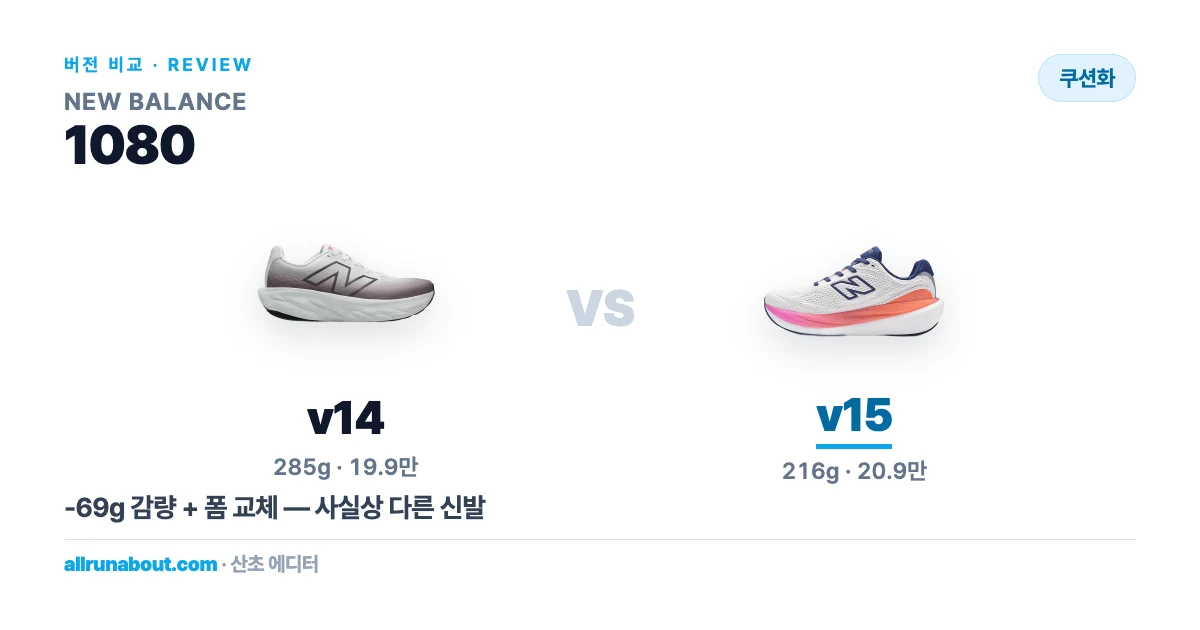
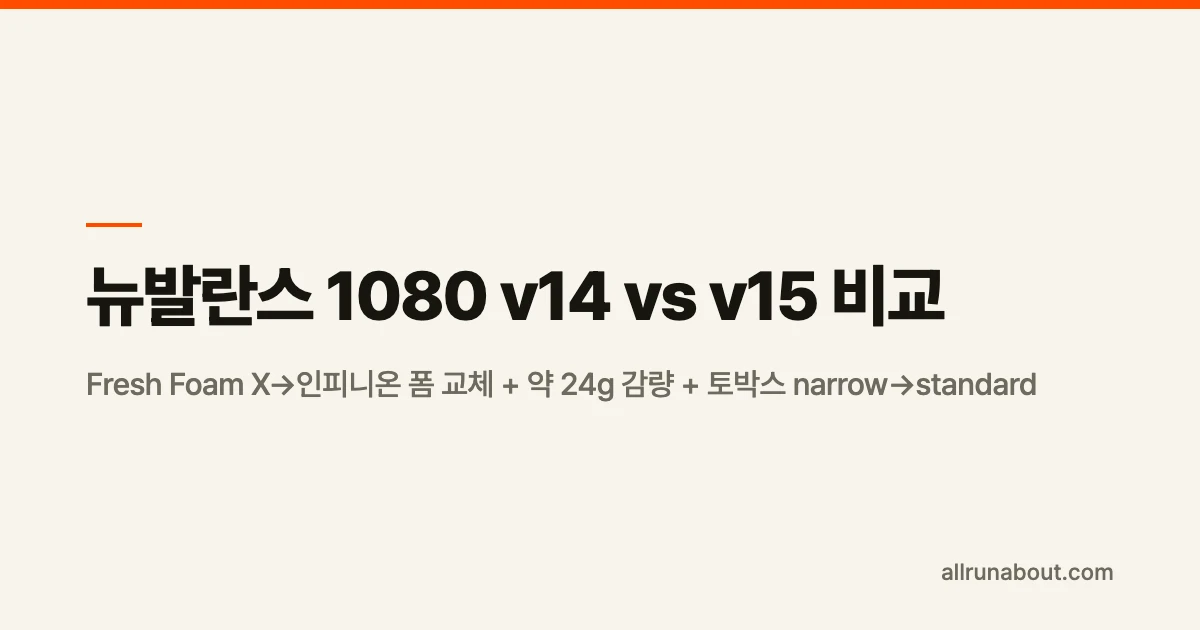
fix(blog): 1080 v15 무게 "216g" 오타 9편 43곳 → 뉴발란스 공식 261g, "65g이 가른다"·"-69g" 논지 정정
newbalance.com 1080v15 남성 "Weight 261 grams (9.2 oz)"(여성 208g), 2026-09-29 확인. 신발 DB는 이미 261g이었고
블로그만 261을 뒤바꾼 216g을 퍼뜨리고 있었다(포항 철인런·시착 팝업·체중 러너·맥스쿠션·가격대별 추천·
매직스피드 4 vs 5 포함).

- 1080 v14 vs v15: 제목 "-69g 충격 감량" → "약 24g 감량"(DB v14 285g 기준). v14 공식 표기가 페이지마다
  273g·298g으로 갈려 본문에 "감량 폭 10~40g 범위"로 밝혔다
- 1080 v15 vs 님버스 28: 제목 "65g이 가른다" → "반발과 드롭이 가른다". 실제 무게 차이는 20g(261 vs 281)이라
  "65g 확실히 체감" FAQ를 본문에 이미 있던 반발(7 vs 5/10)·드롭(6 vs 8mm) 기준으로 고쳤다
- 맥스쿠션 표: 261g이어도 표 안 최경량이라 "이 표에서 가장 가볍다"로 범위를 좁혔고, 보메로 18 발볼은 DB(표준)에 맞췄다
- 제목이 바뀐 두 글 썸네일 재렌더. 후속: v14 공식 무게 확인(10/05 행)

diff --git a/src/lib/data/blog/posts/2026-05.ts b/src/lib/data/blog/posts/2026-05.ts
@@ -3481,7 +3481,7 @@ export const posts_2026_05: BlogPost[] = [
 
 <h3>1. 무게 -44g — 같은 라인업 중에서 가장 큰 폭의 경량화</h3>
 
-<p>237g → 193g, <strong>-19% 경량화</strong>는 비교 시리즈에서 본 변화 중 압도적으로 큰 폭입니다. 페가수스 41 → 42가 +5g(쿠션 강화 트레이드오프), NB 1080 v14 → v15가 -69g 정도였는데 매직스피드는 카본 레이서치고는 큰 폭의 다이어트입니다.</p>
+<p>237g → 193g, <strong>-19% 경량화</strong>는 비교 시리즈에서 본 변화 중 압도적으로 큰 폭입니다. 페가수스 41 → 42가 +5g(쿠션 강화 트레이드오프), NB 1080 v14 → v15가 약 -24g이었는데 매직스피드는 카본 레이서치고는 큰 폭의 다이어트입니다.</p>
 
 <p><strong>무게 차이의 의미</strong>: 한 발 44g(-19%) 차이는 1km 반복 인터벌이나 하프 후반처럼 다리를 오래 반복해 들어 올리는 구간에서 누적될 가능성이 있습니다.</p>
 
@@ -4398,8 +4398,8 @@ export const posts_2026_05: BlogPost[] = [
   {
     id: 'new-balance-1080-v14-vs-v15-comparison',
     slug: 'new-balance-1080-v14-vs-v15-comparison',
-    title: '뉴발란스 1080 v14 vs v15 비교 | -69g 충격 감량 + Fresh Foam X→인피니온 폼 교체 + 토박스 narrow→standard — 사실상 다른 신발',
-    description: '1080 v14(285g/199,000원)와 v15(216g/209,000원)을 RunRepeat 실측 + 외부 리뷰로 비교. 69g 감량 + 폼 자체 교체 + 토박스 narrow→standard + 4E 와이드 추가 — 같은 라인 세대 변화 중 역대급. v14 할인 13만원대 살까, v15 신상 21만원 살까 매트릭스.',
+    title: '뉴발란스 1080 v14 vs v15 비교 | Fresh Foam X→인피니온 폼 교체 + 약 24g 감량 + 토박스 narrow→standard — 사실상 다른 신발',
+    description: '1080 v14(285g/199,000원)와 v15(261g/209,000원)을 RunRepeat 실측 + 외부 리뷰로 비교. 약 24g 감량 + 폼 자체 교체 + 토박스 narrow→standard + 4E 와이드 추가 — 같은 라인 세대 변화 중 역대급. v14 할인 13만원대 살까, v15 신상 21만원 살까 매트릭스.',
     thumbnail: '/images/blog/new-balance-1080-v14-vs-v15-comparison.webp',
     author: '산초 에디터',
     publishedAt: '2026-05-17',
@@ -4410,7 +4410,7 @@ export const posts_2026_05: BlogPost[] = [
 <div class="tldr">
   <span class="tldr-label">3줄 요약</span>
   <ul>
-    <li><strong>같은 라인 세대 변화 중 역대급</strong> — v15는 v14 대비 -69g 감량(285→216g) + Fresh Foam X → 인피니온(질소 주입 슈퍼크리티컬) 폼 교체</li>
+    <li><strong>같은 라인 세대 변화 중 역대급</strong> — v15는 v14 대비 약 24g 감량(285→261g) + Fresh Foam X → 인피니온(질소 주입 슈퍼크리티컬) 폼 교체</li>
     <li>한국 러너 핵심 개선 3가지: <strong>토박스 narrow → standard</strong> + <strong>4E 와이드 옵션 추가</strong> + <strong>힐 스택 +3mm(37→40mm)</strong></li>
     <li>가격 차이 1만원(MSRP). 단 <strong>v14 할인 13~15만원대</strong>로 풀려 실제 차이 5~7만원. "별개의 신발"이라 본인 우선순위(가벼움 vs 가성비)로 갈림</li>
   </ul>
@@ -4434,7 +4434,7 @@ export const posts_2026_05: BlogPost[] = [
     <tr><td><strong>출시</strong></td><td>2024년</td><td><strong>2026년</strong></td><td>2년차 / 신상</td></tr>
     <tr><td><strong>MSRP (한국)</strong></td><td>199,000원</td><td><strong>209,000원</strong></td><td>+10,000원</td></tr>
     <tr><td><strong>현재 시장가</strong></td><td><strong>130,000~150,000원</strong> (이월 할인)</td><td>209,000원 (출시 풀가)</td><td>실제 차이 ~7만원</td></tr>
-    <tr><td><strong>무게 (US M9)</strong></td><td>285g</td><td><strong>216g</strong></td><td><strong>-69g (역대급)</strong></td></tr>
+    <tr><td><strong>무게 (남성)</strong></td><td>285g</td><td><strong>261g</strong> (뉴발란스 공식)</td><td><strong>약 -24g</strong></td></tr>
     <tr><td><strong>미드솔 폼</strong></td><td>Fresh Foam X (EVA 기반)</td><td><strong>인피니온 (질소 주입 슈퍼크리티컬)</strong></td><td>폼 카테고리 자체 교체</td></tr>
     <tr><td><strong>힐 스택 (실측)</strong></td><td>37mm</td><td>40mm</td><td>+3mm</td></tr>
     <tr><td><strong>전족부 스택</strong></td><td>33mm</td><td>34mm</td><td>+1mm</td></tr>
@@ -4453,11 +4453,11 @@ export const posts_2026_05: BlogPost[] = [
 
 <h2>5가지 핵심 변화 — "사실상 다른 신발"</h2>
 
-<h3>1. 무게 -69g 감량 ✅ 같은 라인 세대 변화 중 역대급</h3>
-<p>285g → 216g. 페가수스(+5g)·카야노(-2g)와 비교조차 안 되는 변화.</p>
+<h3>1. 무게 약 24g 감량 ✅ 폼 교체와 함께 온 경량화</h3>
+<p>285g → 261g(뉴발란스 공식 남성 표기). 페가수스(+5g)·카야노(-2g)보다는 큰 폭입니다. 다만 v14 무게는 뉴발란스 공식 페이지마다 273g·298g으로 표기가 달라, 감량 폭은 대략 10~40g 범위로 보는 게 정확합니다.</p>
 
 <h3>2. Fresh Foam X → 인피니온 폼 교체 ✅ 폼 카테고리 자체 교체</h3>
-<p>v14의 Fresh Foam X는 EVA 기반 폼. v15의 <strong>인피니온은 질소 주입 슈퍼크리티컬 폼</strong>(아디다스 Lightstrike Pro·나이키 ZoomX 계열). 같은 두께에서 더 가볍고, 에너지 리턴이 향상되고, 통기성도 개선. <strong>이 폼 교체가 -69g 감량의 핵심</strong>.</p>
+<p>v14의 Fresh Foam X는 EVA 기반 폼. v15의 <strong>인피니온은 질소 주입 슈퍼크리티컬 폼</strong>(아디다스 Lightstrike Pro·나이키 ZoomX 계열). 같은 두께에서 더 가볍고, 에너지 리턴이 향상되고, 통기성도 개선. <strong>이 폼 교체가 감량의 핵심</strong>.</p>
 
 <div class="callout warning">
   <span class="callout-icon">🔬</span>
@@ -4486,13 +4486,13 @@ export const posts_2026_05: BlogPost[] = [
     <tr><td>가성비 최우선 + 표준 발볼</td><td><strong>v14 이월 할인 (13~15만원)</strong></td><td>SA 142 검증 + 쿠셔닝 9/10 동급 + 5~7만원 절약</td></tr>
     <tr><td>발볼 4E급 (4E 와이드 필수)</td><td><strong>v15 4E</strong></td><td>v14 4E 옵션 없음, v15 신규 추가</td></tr>
     <tr><td>발볼 2E (와이드 정도)</td><td>v14 또는 v15</td><td>둘 다 2E 옵션 있음. 가격으로 선택</td></tr>
-    <tr><td>가벼운 쿠션화 우선 (216g)</td><td><strong>v15</strong></td><td>-69g 차이 압도적</td></tr>
-    <tr><td>빠른 페이스(5:00/km 이하) 가능 쿠션화</td><td><strong>v15</strong></td><td>216g + 인피니온 폼 반발</td></tr>
+    <tr><td>가벼운 쿠션화 우선 (261g)</td><td><strong>v15</strong></td><td>약 24g 가벼움</td></tr>
+    <tr><td>빠른 페이스(5:00/km 이하) 가능 쿠션화</td><td><strong>v15</strong></td><td>261g + 인피니온 폼 반발</td></tr>
     <tr><td>리커버리·LSD 위주 (페이스 무관)</td><td><strong>v14 (가성비)</strong></td><td>HA 11.9 초소프트, 푹 쉬는 느낌</td></tr>
     <tr><td>평발·과내전</td><td>둘 다 비추 (안정화로)</td><td>1080은 중립화. 카야노 32/33이 답</td></tr>
     <tr><td>무릎 약한 뒤꿈치 착지</td><td><strong>v15</strong></td><td>40mm 스택 + 6mm 드롭 개선</td></tr>
     <tr><td>v14 600km 이내 멀쩡</td><td><strong>v14 계속</strong></td><td>v15 갈아탈 가치 미미</td></tr>
-    <tr><td>v14 수명 다 됨 + 무게 부담 컸음</td><td><strong>v15</strong></td><td>-69g + standard 토박스</td></tr>
+    <tr><td>v14 수명 다 됨 + 무게 부담 컸음</td><td><strong>v15</strong></td><td>약 -24g + standard 토박스</td></tr>
     <tr><td>주 100km+ 고볼륨</td><td>v14 (내구성 검증) 또는 v15 (가벼움)</td><td>본인 우선순위로 갈림</td></tr>
     <tr><td>1080 첫 도전 + 발볼 표준</td><td><strong>v14 이월</strong></td><td>13~15만원에 쿠셔닝 검증된 입문</td></tr>
   </tbody>
@@ -4518,7 +4518,7 @@ export const posts_2026_05: BlogPost[] = [
 <ul>
   <li><strong>발볼 4E급:</strong> v15 4E 정가로 가야 함. v14는 4E 없음, 2E로는 부족할 가능성</li>
   <li><strong>발볼 표준~2E + 가성비:</strong> v14 이월 13~15만원이 지금 가장 합리적. 여름~블프 더 떨어질 가능성 vs 사이즈 빠질 위험 트레이드오프</li>
-  <li><strong>경량 쿠션화 우선:</strong> v15 정가 21만원 감수. -69g 가치는 본인이 직접 신어봐야 체감 가능</li>
+  <li><strong>경량 쿠션화 우선:</strong> v15 정가 21만원 감수. 약 24g 감량 폭은 크지 않아 매장 시착으로 체감을 확인하는 편이 안전</li>
   <li><strong>둘 다 처음:</strong> NB 매장 또는 ON YOUR MARK 트라이얼에서 양쪽 동시 신어보고 결정</li>
 </ul>
 
@@ -4553,7 +4553,7 @@ export const posts_2026_05: BlogPost[] = [
 <h2>FAQ</h2>
 
 <h3>Q. v14 → v15 업그레이드 가치 있나요?</h3>
-<p>가치 큼. <strong>-69g 감량 + 폼 자체 교체 + 토박스 standard + 4E 옵션</strong> — 같은 라인 세대 변화 중 거의 가장 큰 폭. v14를 300km 이내 신었다면 그냥 v14 굴리고, v14가 수명 다 됐거나 발볼 4E급이라면 무조건 v15.</p>
+<p>가치 큼. <strong>약 24g 감량 + 폼 자체 교체 + 토박스 standard + 4E 옵션</strong> — 같은 라인 세대 변화 중 거의 가장 큰 폭. v14를 300km 이내 신었다면 그냥 v14 굴리고, v14가 수명 다 됐거나 발볼 4E급이라면 무조건 v15.</p>
 
 <h3>Q. v15가 정말 v14보다 부드러운가요?</h3>
 <p>"부드러움 절대치"는 v14의 HA 11.9 초소프트가 살짝 더 부드러울 수 있음 (검증 데이터 기준). 다만 v15의 인피니온 폼은 NB가 에너지 리턴 향상을 내세운 폼이라, 반발감은 v15 쪽일 가능성이 있음(v15 랩 수치는 작성 시점 미게시). <strong>리커버리 위주 = v14, 데일리 + 페이스 가끔 올리기 = v15</strong>가 정답.</p>
@@ -4565,7 +4565,7 @@ export const posts_2026_05: BlogPost[] = [
 <p>가벼운 평발이라면 OK. <strong>안정성 6/10은 "중립화 평균"</strong>이고, 페가수스(8/10)·님버스(7/10)보다는 약하지만 1080도 충분한 베이스 폼 안정성은 있음. 다만 <strong>심한 과내전이면 무조건 카야노 32/33이나 860 v15</strong>로.</p>
 
 <h3>Q. v15로 풀코스 가능한가요?</h3>
-<p>가능. 216g + 6mm 드롭 + 인피니온 폼 조합은 Sub-4 ~ Sub-5 풀코스 완주에 적합. <strong>Sub-3:30 이하 도전은 카본 슈즈로 분리 권장</strong>. v15는 데일리 + LSD + 풀코스 완주(페이스 부담 없는 경우) 전용.</p>
+<p>가능. 261g + 6mm 드롭 + 인피니온 폼 조합은 Sub-4 ~ Sub-5 풀코스 완주에 적합. <strong>Sub-3:30 이하 도전은 카본 슈즈로 분리 권장</strong>. v15는 데일리 + LSD + 풀코스 완주(페이스 부담 없는 경우) 전용.</p>
 
 <h3>Q. v14 narrow 토박스 발볼 표준이면 신을 만 한가요?</h3>
 <p>발볼 정확히 표준(EE 이하)이라면 D 사이즈 OK. <strong>발볼 약간 넓다 싶으면 무조건 2E</strong>. RunRepeat 실측 토박스 68mm 미만 narrow는 한국 러너 평균(70~75mm)보다 좁음.</p>
@@ -4576,7 +4576,7 @@ export const posts_2026_05: BlogPost[] = [
   <span class="callout-icon">🎯</span>
   <div class="callout-body">
     <p class="callout-title">90% 한국 러너에게는 두 갈래</p>
-    <p><strong>① 발볼 4E급 또는 가벼운 쿠션화 매니아:</strong> <a href="/shoes/new-balance-1080-v15">1080 v15</a> 정가 21만원 감수해서라도 4E 신규 옵션 + -69g 가치 회수.</p>
+    <p><strong>① 발볼 4E급 또는 가벼운 쿠션화 매니아:</strong> <a href="/shoes/new-balance-1080-v15">1080 v15</a> 정가 21만원 감수해서라도 4E 신규 옵션 + 폼 교체 가치 회수.</p>
     <p><strong>② 발볼 표준~2E + 가성비:</strong> <a href="/shoes/new-balance-1080-v14">1080 v14</a> 이월 13~15만원 잡고 5~7만원 절약. SA 142 + HA 11.9 초소프트 쿠셔닝은 여전히 최상위. 페이스 욕심 없는 리커버리·LSD 위주라면 무게 차이 체감 적음.</p>
     <p><strong>둘 다 처음이거나 결정 못 한다면:</strong> ON YOUR MARK 경복궁점·부산점 또는 NB 직영매장에서 양쪽 동시 시착이 가장 정확.</p>
   </div>
@@ -7389,7 +7389,7 @@ export const posts_2026_05: BlogPost[] = [
 <ul>
   <li><strong>1코스 3.8km / 2코스 7.87km — 경량 데일리:</strong> <a href="/shoes/adidas-adizero-evo-sl">아디다스 아디제로 에보 SL</a>(223g)·<a href="/shoes/nike-pegasus-plus">나이키 페가수스 플러스</a>·<a href="/shoes/new-balance-rebel-v5">NB 레벨 v5</a></li>
   <li><strong>3코스 15.38km / PB 도전 — 슈퍼 트레이너 또는 카본화:</strong> <a href="/shoes/adidas-adios-pro-4">아디오스 프로 4</a>·<a href="/shoes/asics-magic-speed-4">매직 스피드 4</a>·<a href="/shoes/nike-vaporfly-4">베이퍼플라이 4</a></li>
-  <li><strong>3코스 15.38km / 안전 완주 — 슈퍼 트레이너 또는 쿠션화:</strong> <a href="/shoes/new-balance-1080-v15">NB 1080 v15</a>(216g)·<a href="/shoes/asics-superblast-2">슈퍼블라스트 2</a>·<a href="/shoes/asics-gel-nimbus-28">님버스 28</a></li>
+  <li><strong>3코스 15.38km / 안전 완주 — 슈퍼 트레이너 또는 쿠션화:</strong> <a href="/shoes/new-balance-1080-v15">NB 1080 v15</a>(261g)·<a href="/shoes/asics-superblast-2">슈퍼블라스트 2</a>·<a href="/shoes/asics-gel-nimbus-28">님버스 28</a></li>
 </ul>
 
 <p>발볼이 넓으면 와이드 옵션을 우선하고, 여름 대회는 통기성 좋은 메쉬 어퍼가 필수입니다. 본인 발에 맞는 신발이 막막하다면 <a href="/recommend">1분 러닝화 추천</a>으로 후보를 좁혀보세요.</p>
@@ -7613,7 +7613,7 @@ export const posts_2026_05: BlogPost[] = [
     id: '2026-nb-1080v15-tryout-popup-d3',
     slug: '2026-nb-1080v15-tryout-popup-d3',
     title: 'NB 1080 v15 무료 트라이얼 POP-UP D-3 | 5/14 마감 — 경복궁·부산 OYM에서 신상 쿠션화 직접 신어보기',
-    description: '뉴발란스 1080 v15·Rebel v5 신상 컬러를 매장에서 무료 시착할 수 있는 ON YOUR MARK 팝업이 5월 14일(수)에 종료됩니다. 경복궁·부산 두 매장에서 진행, 트라이얼 시 무료 커피 쿠폰. NB의 플래그십 쿠션화(216g, 인피니온 폼, 2E·4E 와이드)를 사기 전에 신어볼 수 있는 거의 유일한 기회.',
+    description: '뉴발란스 1080 v15·Rebel v5 신상 컬러를 매장에서 무료 시착할 수 있는 ON YOUR MARK 팝업이 5월 14일(수)에 종료됩니다. 경복궁·부산 두 매장에서 진행, 트라이얼 시 무료 커피 쿠폰. NB의 플래그십 쿠션화(261g, 인피니온 폼, 2E·4E 와이드)를 사기 전에 신어볼 수 있는 거의 유일한 기회.',
     thumbnail: '/images/blog/2026-nb-1080v15-tryout-popup-d3.webp',
     author: '산초 에디터',
     publishedAt: '2026-05-11',
@@ -7626,7 +7626,7 @@ export const posts_2026_05: BlogPost[] = [
   <ul>
     <li>NB <strong>1080 v15 + Rebel v5 무료 트라이얼 팝업</strong>이 5월 14일(수)에 종료 — D-3</li>
     <li>장소: <strong>ON YOUR MARK 경복궁점 / 부산점</strong> 2곳. 트라이얼 시 무료 커피 쿠폰 제공</li>
-    <li>1080 v15(216g·인피니온 폼·2E·4E 와이드)와 Rebel v5(220g·FuelCell)를 사기 전 매장 시착 가능한 거의 유일한 기회</li>
+    <li>1080 v15(261g·인피니온 폼·2E·4E 와이드)와 Rebel v5(220g·FuelCell)를 사기 전 매장 시착 가능한 거의 유일한 기회</li>
   </ul>
 </div>
 
@@ -7640,10 +7640,10 @@ export const posts_2026_05: BlogPost[] = [
 
 <h2>이번 팝업이 왜 중요한가</h2>
 
-<p>NB 1080 v15는 2026년 발매된 뉴발란스 플래그십 쿠션화입니다. 전작 v14 대비 <strong>69g 경량화(285→216g)</strong> + 인피니온(질소 주입 슈퍼크리티컬 폼) 채택으로 거의 다른 신발이 됐죠. <a href="/shoes/new-balance-1080-v15">1080 v15</a>를 한국 러너에게 매력적으로 만드는 핵심 3가지:</p>
+<p>NB 1080 v15는 2026년 발매된 뉴발란스 플래그십 쿠션화입니다. 전작 v14 대비 <strong>약 24g 경량화(285→261g)</strong> + 인피니온(질소 주입 슈퍼크리티컬 폼) 채택으로 거의 다른 신발이 됐죠. <a href="/shoes/new-balance-1080-v15">1080 v15</a>를 한국 러너에게 매력적으로 만드는 핵심 3가지:</p>
 
 <ul>
-  <li><strong>216g 경량 쿠션화</strong> — 맥스 쿠션(40mm 스택) 신발이 200g대로 떨어진 거의 유일한 모델</li>
+  <li><strong>261g 경량 쿠션화</strong> — 힐 40mm 스택 맥스 쿠션 중 가벼운 편</li>
   <li><strong>2E·4E 와이드 옵션 정식 출시</strong> — 발볼 넓은 한국 러너에게 거의 유일한 맥스 쿠션 선택지</li>
   <li><strong>인피니온 폼</strong> — Fresh Foam X보다 통기성·반응성·에너지 리턴이 향상된 NB 최신 폼</li>
 </ul>
@@ -7670,14 +7670,14 @@ export const posts_2026_05: BlogPost[] = [
 
 <h3>① <a href="/shoes/new-balance-1080-v15">1080 v15</a> — 데일리 쿠션화의 정답 후보</h3>
 
-<p><strong>209,000원 · 216g · 힐 스택 40mm · 평점 4.9</strong></p>
+<p><strong>209,000원 · 261g · 힐 스택 40mm · 평점 4.9</strong></p>
 
 <p>맥스 쿠션 카테고리에서 v15의 위치는 분명합니다. <strong>"가장 가볍고 발에 맞는 옵션이 많은 맥스 쿠션"</strong>. <a href="/shoes/hoka-bondi-9">Bondi 9</a>(303g)·<a href="/shoes/asics-gel-nimbus-28">Nimbus 28</a>(281g)보다 70~85g 가볍습니다.</p>
 
 <p>매장에서 확인할 3가지:</p>
 <ol>
   <li><strong>토박스 핏</strong> — v14 narrow에서 v15는 standard로 개선. 발볼 보통이면 무난, 넓으면 2E 또는 4E 시착</li>
-  <li><strong>힐 컵 핏</strong> — 216g 경량화 과정에서 힐 카운터가 부드러워짐. 뒤꿈치가 헐거우면 사이즈 -0.5 시도</li>
+  <li><strong>힐 컵 핏</strong> — 경량화 과정에서 힐 카운터가 부드러워짐. 뒤꿈치가 헐거우면 사이즈 -0.5 시도</li>
   <li><strong>인피니온 폼 반응</strong> — 매장 내 가볍게 점프하거나 빠르게 걸을 때 Fresh Foam X 대비 반응이 빠른 느낌 체크</li>
 </ol>
 
@@ -8071,9 +8071,9 @@ export const posts_2026_05: BlogPost[] = [
 
 <h3>5위. <a href="/shoes/new-balance-1080-v15">New Balance 1080 v15</a> — 와이드 옵션 최강</h3>
 
-<p><strong>가격 209,000원 · 무게 216g · 힐 스택 40mm · 평점 4.9</strong></p>
+<p><strong>가격 209,000원 · 무게 261g · 힐 스택 40mm · 평점 4.9</strong></p>
 
-<p>v14 대비 69g 경량화(285→216g)에도 힐 스택은 40mm 유지. Infinion(질소 주입 슈퍼크리티컬 폼)이 가벼우면서도 충분한 쿠션 제공. <strong>2E·4E 와이드 옵션이 정식 출시</strong>되는 거의 유일한 맥스 쿠션이라 발볼 넓은 한국 러너 1순위.</p>
+<p>v14 대비 약 24g 경량화(285→261g)에도 힐 스택은 40mm 유지. Infinion(질소 주입 슈퍼크리티컬 폼)이 가벼우면서도 충분한 쿠션 제공. <strong>2E·4E 와이드 옵션이 정식 출시</strong>되는 거의 유일한 맥스 쿠션이라 발볼 넓은 한국 러너 1순위.</p>
 
 <ul>
   <li><strong>적합:</strong> 체중 75~90kg + 발볼 넓음, 가벼운 쿠션화를 원하는 러너</li>
@@ -8146,7 +8146,7 @@ export const posts_2026_05: BlogPost[] = [
     <tr><td>2</td><td><strong>Glycerin Max 2</strong></td><td>249,000원</td><td>312g</td><td>43mm</td><td>쿠션화</td><td>2E</td></tr>
     <tr><td>3</td><td><strong>Nimbus 28</strong></td><td>199,000원</td><td>281g</td><td>43mm</td><td>쿠션화</td><td>2E</td></tr>
     <tr><td>4</td><td><strong>Kayano 32</strong></td><td>199,000원</td><td>300g</td><td>40mm</td><td>안정화</td><td>2E</td></tr>
-    <tr><td>5</td><td><strong>NB 1080 v15</strong></td><td>209,000원</td><td>216g</td><td>40mm</td><td>쿠션화</td><td>2E·4E</td></tr>
+    <tr><td>5</td><td><strong>NB 1080 v15</strong></td><td>209,000원</td><td>261g</td><td>40mm</td><td>쿠션화</td><td>2E·4E</td></tr>
     <tr><td>6</td><td><strong>Glycerin 22</strong></td><td>209,000원</td><td>293g</td><td>38mm</td><td>쿠션화</td><td>2E</td></tr>
     <tr><td>7</td><td><strong>Triumph 23</strong></td><td>199,000원</td><td>272g</td><td>37mm</td><td>쿠션화</td><td>2E</td></tr>
     <tr><td>8</td><td><strong>Cloudmonster 3</strong></td><td>229,000원</td><td>295g</td><td>34mm</td><td>쿠션화</td><td>없음</td></tr>

diff --git a/src/lib/data/blog/posts/2026-07.ts b/src/lib/data/blog/posts/2026-07.ts
@@ -1593,9 +1593,9 @@ export const posts_2026_07: BlogPost[] = [
   {
     id: 'new-balance-1080-v15-vs-asics-nimbus-28-premium-cushion-2026',
     slug: 'new-balance-1080-v15-vs-asics-nimbus-28-premium-cushion-2026',
-    title: '뉴발란스 1080 v15 vs 아식스 님버스 28 — 프리미엄 데일리 쿠션, 65g이 가른다',
+    title: '뉴발란스 1080 v15 vs 아식스 님버스 28 — 프리미엄 데일리 쿠션, 반발과 드롭이 가른다',
     description:
-      '프리미엄 데일리 쿠션화의 양대 산맥, 뉴발란스 1080 v15와 아식스 젤 님버스 28을 정면 비교합니다. 같은 20만원대 최상급 쿠션이지만 성격은 정반대 — 1080 v15는 216g의 경량 반응형, 님버스 28은 281g의 최대 쿠션입니다. 무게 65g 차이가 만드는 주행감, 스택·드롭·발볼·무릎 보호·가성비를 한국 러너 관점에서 갈랐습니다.',
+      '프리미엄 데일리 쿠션화의 양대 산맥, 뉴발란스 1080 v15와 아식스 젤 님버스 28을 정면 비교합니다. 같은 20만원대 최상급 쿠션이지만 성격은 정반대 — 1080 v15는 261g의 반응형, 님버스 28은 281g의 최대 쿠션입니다. 반발(7 vs 5/10)과 드롭(6 vs 8mm)이 만드는 주행감, 무게·스택·발볼·무릎 보호·가성비를 한국 러너 관점에서 갈랐습니다.',
     thumbnail: '/images/blog/new-balance-1080-v15-vs-asics-nimbus-28-premium-cushion-2026.webp',
     author: '산초 에디터',
     publishedAt: '2026-07-25',
@@ -1606,7 +1606,7 @@ export const posts_2026_07: BlogPost[] = [
 <div class="tldr">
   <span class="tldr-label">3줄 요약</span>
   <ul>
-    <li><strong>같은 프리미엄 데일리 쿠션이지만 성격이 정반대</strong> — <a href="/shoes/new-balance-1080-v15">1080 v15</a>는 216g의 경량 반응형, <a href="/shoes/asics-gel-nimbus-28">님버스 28</a>은 281g의 최대 쿠션. 무게 차이가 무려 <strong>65g</strong>입니다</li>
+    <li><strong>같은 프리미엄 데일리 쿠션이지만 성격이 정반대</strong> — <a href="/shoes/new-balance-1080-v15">1080 v15</a>는 261g의 반응형, <a href="/shoes/asics-gel-nimbus-28">님버스 28</a>은 281g의 최대 쿠션. 무게 차이는 <strong>20g</strong>으로 크지 않고, 갈리는 건 반발과 드롭입니다</li>
     <li><strong>가볍고 경쾌하게, 롱런도 페이스를 살리고 싶다면 1080 v15</strong>(반발 7·드롭 6mm). <strong>최대한 푹신하게, 관절 보호와 회복주 위주라면 님버스 28</strong>(쿠션 10·스택 43.5mm)</li>
     <li>둘 다 <strong>와이드(2E) 옵션</strong>이 있어 발볼 넓은 한국 러너도 안심이고, 무릎 보호는 <strong>둘 다 최상(excellent)</strong>. 가격은 님버스가 1만원 저렴합니다</li>
   </ul>
@@ -1621,7 +1621,7 @@ export const posts_2026_07: BlogPost[] = [
   <thead><tr><th>항목</th><th>뉴발란스 1080 v15</th><th>아식스 젤 님버스 28</th></tr></thead>
   <tbody>
     <tr><td>가격(한국)</td><td>209,000원</td><td><strong>199,000원</strong></td></tr>
-    <tr><td>무게</td><td><strong>216g</strong> (남 US9)</td><td>281g</td></tr>
+    <tr><td>무게</td><td><strong>261g</strong> (남성, 뉴발란스 공식)</td><td>281g</td></tr>
     <tr><td>스택(힐/전족)</td><td>40 / 34mm</td><td><strong>43.5 / 35.5mm</strong></td></tr>
     <tr><td>드롭</td><td>6mm</td><td>8mm</td></tr>
     <tr><td>미드솔</td><td>Infinion (질소 슈퍼크리티컬)</td><td>FF BLAST PLUS</td></tr>
@@ -1637,7 +1637,7 @@ export const posts_2026_07: BlogPost[] = [
 <p><small>수치는 본 사이트 신발 DB(RunRepeat 랩 실측 및 한국 공식가 기준)입니다.</small></p>
 
 <h2>뉴발란스 1080 v15 — 프리미엄인데 가볍다</h2>
-<p>1080 v15의 정체성은 <strong>"프리미엄 쿠션인데 216g"</strong>이라는 한 문장에 있습니다. 님버스보다 65g이나 가벼운데, 이건 데일리 트레이너 두 켤레의 무게 차이라기보다 거의 "쿠션화 vs 템포화" 급의 격차입니다. 새로 도입된 Infinion 질소 슈퍼크리티컬 폼이 부드러우면서도 반발(7/10)을 살려, 느린 조깅부터 페이스를 올린 롱런까지 한 켤레로 커버합니다. 드롭도 6mm로 낮아 발 앞쪽으로 자연스럽게 굴러가는 느낌이 좋습니다.</p>
+<p>1080 v15의 정체성은 <strong>"프리미엄 쿠션인데 반응형"</strong>이라는 한 문장에 있습니다. 무게는 261g으로 님버스보다 20g 가벼운 정도라 결정적인 차이는 아닙니다. 새로 도입된 Infinion 질소 슈퍼크리티컬 폼이 부드러우면서도 반발(7/10)을 살려, 느린 조깅부터 페이스를 올린 롱런까지 한 켤레로 커버합니다. 드롭도 6mm로 낮아 발 앞쪽으로 자연스럽게 굴러가는 느낌이 좋습니다.</p>
 <p>약점은 <strong>안정성(6/10)</strong>입니다. 스택이 높은 중립화 특성상 발이 심하게 안쪽으로 무너지는 과내전 러너에게는 지지가 부족할 수 있습니다. 님버스보다 km당 비용(348원)도 약간 높고요.</p>
 <p><strong>✅ 이런 분께</strong> — 프리미엄 쿠션의 보호는 원하지만 무거운 신발이 싫은 분, 데일리 한 켤레로 조깅과 롱런을 다 소화하고 싶은 분, 경쾌한 반발을 선호하는 중립 발 러너.</p>
 
@@ -1659,11 +1659,11 @@ export const posts_2026_07: BlogPost[] = [
   <h2>자주 묻는 질문</h2>
   <div class="faq-item">
     <p class="faq-q">Q. 초보 러너인데 둘 중 뭐가 나을까요?</p>
-    <p class="faq-a">A. 무릎 보호가 둘 다 최상이라 입문용으로 모두 무난합니다. 다만 처음엔 안정감이 중요한데, 묵직하게 받쳐주는 님버스 28이 심리적으로 더 편할 수 있습니다. 반대로 무거운 신발이 부담되면 216g의 1080 v15가 발이 가볍습니다. 더 저렴한 입문 옵션은 <a href="/blog/first-running-shoe-guide-2026">첫 러닝화 가이드</a>를 참고하세요.</p>
+    <p class="faq-a">A. 무릎 보호가 둘 다 최상이라 입문용으로 모두 무난합니다. 다만 처음엔 안정감이 중요한데, 묵직하게 받쳐주는 님버스 28이 심리적으로 더 편할 수 있습니다. 반대로 무거운 신발이 부담되면 261g의 1080 v15가 조금 더 가볍습니다. 더 저렴한 입문 옵션은 <a href="/blog/first-running-shoe-guide-2026">첫 러닝화 가이드</a>를 참고하세요.</p>
   </div>
   <div class="faq-item">
-    <p class="faq-q">Q. 65g 차이가 실제로 체감되나요?</p>
-    <p class="faq-a">A. 네, 확실히 체감됩니다. 65g은 양발 130g으로, 10km 이상 뛰면 다리 피로도에서 차이가 납니다. 대신 님버스는 그 무게만큼 쿠션과 안정을 돌려주니, "가벼움 vs 푹신함" 중 무엇을 우선하느냐의 문제입니다.</p>
+    <p class="faq-q">Q. 무게 차이가 실제로 체감되나요?</p>
+    <p class="faq-a">A. 크지 않습니다. 261g과 281g으로 한 발 20g 차이라, 체감은 무게보다 반발(7 vs 5/10)과 드롭(6 vs 8mm)에서 더 갈릴 가능성이 큽니다. 님버스는 그만큼 쿠션과 안정을 돌려주니, "반응성 vs 푹신함" 중 무엇을 우선하느냐의 문제입니다.</p>
   </div>
   <div class="faq-item">
     <p class="faq-q">Q. 마라톤 풀코스에 신어도 되나요?</p>
@@ -4508,7 +4508,7 @@ export const posts_2026_07: BlogPost[] = [
 <table>
   <thead><tr><th>모델</th><th>가격</th><th>무게</th><th>성격</th><th>강점</th></tr></thead>
   <tbody>
-    <tr><td><a href="/shoes/new-balance-1080-v15">뉴발란스 1080 V15</a></td><td>209,000</td><td>216g</td><td>프리미엄 쿠션</td><td>216g으로 가벼운데 푹신, 완성도 최상</td></tr>
+    <tr><td><a href="/shoes/new-balance-1080-v15">뉴발란스 1080 V15</a></td><td>209,000</td><td>261g</td><td>프리미엄 쿠션</td><td>261g으로 가벼운 편인데 푹신, 완성도 최상</td></tr>
     <tr><td><a href="/shoes/brooks-glycerin-22">브룩스 글리세린 22</a></td><td>209,000</td><td>293g</td><td>부드러운 쿠션</td><td>말랑한 발밑·데일리 럭셔리</td></tr>
     <tr><td><a href="/shoes/adidas-adizero-evo-sl">아디다스 아디제로 Evo SL</a></td><td>209,000</td><td>223g</td><td>가성비 슈퍼트레이너</td><td>카본 없이 빠른 반발, 훈련·레이스 겸용</td></tr>
     <tr><td><a href="/shoes/saucony-endorphin-speed-5">써코니 엔돌핀 스피드 5</a></td><td>219,000</td><td>241g</td><td>템포 트레이너</td><td>나일론 플레이트, 스피드 훈련 최적</td></tr>
@@ -4520,7 +4520,7 @@ export const posts_2026_07: BlogPost[] = [
   <span class="callout-icon">🦵</span>
   <div class="callout-body">
     <p class="callout-title">이 구간의 선택</p>
-    <p><strong>가볍고 푹신한 만능 쿠션</strong>이면 <a href="/shoes/new-balance-1080-v15">1080 V15</a>(216g·프리미엄 쿠션의 정석), <strong>무릎·관절 보호를 최우선</strong>하면 <a href="/shoes/hoka-bondi-9">본디 9</a>(<a href="/blog/hoka-bondi-9-review">상세 후기</a>)입니다. <strong>훈련과 레이스를 한 켤레로</strong> 겸하고 싶다면 카본 없이 빠른 <a href="/shoes/adidas-adizero-evo-sl">Evo SL</a>(<a href="/blog/adidas-adizero-evo-sl-value-supershoe-2026">가성비 슈퍼트레이너 리뷰</a>)이나 <a href="/shoes/saucony-endorphin-speed-5">엔돌핀 스피드 5</a>가 답입니다. 맥스쿠션과 무릎 보호의 관계는 <a href="/blog/max-cushion-running-shoes-knee-protection-2026">맥스쿠션 무릎 보호 가이드</a>에 정리했어요.</p>
+    <p><strong>가볍고 푹신한 만능 쿠션</strong>이면 <a href="/shoes/new-balance-1080-v15">1080 V15</a>(261g·프리미엄 쿠션의 정석), <strong>무릎·관절 보호를 최우선</strong>하면 <a href="/shoes/hoka-bondi-9">본디 9</a>(<a href="/blog/hoka-bondi-9-review">상세 후기</a>)입니다. <strong>훈련과 레이스를 한 켤레로</strong> 겸하고 싶다면 카본 없이 빠른 <a href="/shoes/adidas-adizero-evo-sl">Evo SL</a>(<a href="/blog/adidas-adizero-evo-sl-value-supershoe-2026">가성비 슈퍼트레이너 리뷰</a>)이나 <a href="/shoes/saucony-endorphin-speed-5">엔돌핀 스피드 5</a>가 답입니다. 맥스쿠션과 무릎 보호의 관계는 <a href="/blog/max-cushion-running-shoes-knee-protection-2026">맥스쿠션 무릎 보호 가이드</a>에 정리했어요.</p>
   </div>
 </div>
 

diff --git a/src/lib/data/blog/posts/2026-06.ts b/src/lib/data/blog/posts/2026-06.ts
@@ -7206,7 +7206,7 @@ export const posts_2026_06: BlogPost[] = [
   <span class="tldr-label">3줄 요약</span>
   <ul>
     <li>무릎·관절이 약하거나 LSD·회복런 위주라면, 두꺼운 폼이 충격을 흡수하는 <strong>맥스쿠션 러닝화</strong>가 관절 부담을 줄여줍니다</li>
-    <li>종합 추천은 <strong><a href="/shoes/new-balance-1080-v15">뉴발란스 1080 v15</a></strong> — 맥스쿠션인데 216g으로 가볍고, 우리 사이트에서 가장 많이 추천되는 모델입니다</li>
+    <li>종합 추천은 <strong><a href="/shoes/new-balance-1080-v15">뉴발란스 1080 v15</a></strong> — 맥스쿠션인데 261g으로 가볍고, 우리 사이트에서 가장 많이 추천되는 모델입니다</li>
     <li>발볼 넓으면 <a href="/shoes/brooks-ghost-max-3">고스트 맥스 3</a>(17만원대·wide), 푹신함 최우선이면 <a href="/shoes/hoka-bondi-9">본디 9</a>·<a href="/shoes/asics-gel-nimbus-28">님버스 28</a>입니다</li>
   </ul>
 </div>
@@ -7225,17 +7225,17 @@ export const posts_2026_06: BlogPost[] = [
     <tr><th>모델</th><th>쿠션</th><th>무게</th><th>드롭</th><th>발볼</th><th>가격</th><th>특징</th></tr>
   </thead>
   <tbody>
-    <tr><td><strong><a href="/shoes/new-balance-1080-v15">1080 v15</a></strong> 👑</td><td>9</td><td><strong>216g</strong></td><td>6mm</td><td>표준</td><td>209,000</td><td>맥스쿠션인데 경량</td></tr>
+    <tr><td><strong><a href="/shoes/new-balance-1080-v15">1080 v15</a></strong> 👑</td><td>9</td><td><strong>261g</strong></td><td>6mm</td><td>표준</td><td>209,000</td><td>맥스쿠션인데 경량</td></tr>
     <tr><td><a href="/shoes/asics-gel-nimbus-28">님버스 28</a></td><td><strong>10</strong></td><td>281g</td><td>8mm</td><td>표준</td><td>199,000</td><td>아식스 최고 쿠션</td></tr>
     <tr><td><a href="/shoes/hoka-bondi-9">본디 9</a></td><td><strong>10</strong></td><td>303g</td><td>9mm</td><td><strong>넓음</strong></td><td>229,000</td><td>호카 대표 맥스</td></tr>
     <tr><td><a href="/shoes/brooks-ghost-max-3">고스트 맥스 3</a></td><td>9</td><td>303g</td><td>7mm</td><td><strong>넓음</strong></td><td><strong>179,000</strong></td><td>발볼 넓은 가성비</td></tr>
-    <tr><td><a href="/shoes/nike-vomero-18">보메로 18</a></td><td>10</td><td>298g</td><td><strong>14mm</strong></td><td>좁음</td><td>189,000</td><td>높은 드롭(아킬레스 편함)</td></tr>
+    <tr><td><a href="/shoes/nike-vomero-18">보메로 18</a></td><td>10</td><td>298g</td><td><strong>14mm</strong></td><td>표준</td><td>189,000</td><td>높은 드롭(아킬레스 편함)</td></tr>
     <tr><td><a href="/shoes/new-balance-1080-v14">1080 v14</a></td><td>9</td><td>285g</td><td>4mm</td><td>좁음</td><td>199,000</td><td>낮은 드롭·전작</td></tr>
   </tbody>
 </table>
 
 <h2>👑 종합 톱픽 — 뉴발란스 1080 v15</h2>
-<p><a href="/shoes/new-balance-1080-v15">1080 v15</a>는 40mm 힐 스택의 푹신함을 갖추고도 <strong>216g으로 동급에서 가장 가볍습니다</strong>. 맥스쿠션의 단점인 둔함을 줄여, 회복런부터 데일리까지 폭넓게 소화하죠. 전작과의 차이(낮은 드롭·발볼)는 따로 비교할 가치가 있는데, 신상 v15는 표준 발볼로 넓어졌습니다.</p>
+<p><a href="/shoes/new-balance-1080-v15">1080 v15</a>는 40mm 힐 스택의 푹신함을 갖추고도 <strong>261g으로 이 표에서 가장 가볍습니다</strong>. 맥스쿠션의 단점인 둔함을 줄여, 회복런부터 데일리까지 폭넓게 소화하죠. 전작과의 차이(낮은 드롭·발볼)는 따로 비교할 가치가 있는데, 신상 v15는 표준 발볼로 넓어졌습니다.</p>
 
 <div class="callout tip">
   <span class="callout-icon">🖥</span>
@@ -7247,7 +7247,7 @@ export const posts_2026_06: BlogPost[] = [
 
 <h2>목적별 베스트</h2>
 <ul>
-  <li><strong>경량·만능</strong> → <a href="/shoes/new-balance-1080-v15">1080 v15</a>(216g)</li>
+  <li><strong>경량·만능</strong> → <a href="/shoes/new-balance-1080-v15">1080 v15</a>(261g)</li>
   <li><strong>최고 푹신함</strong> → <a href="/shoes/hoka-bondi-9">본디 9</a>·<a href="/shoes/asics-gel-nimbus-28">님버스 28</a>(쿠션 10)</li>
   <li><strong>발볼 넓은 러너·가성비</strong> → <a href="/shoes/brooks-ghost-max-3">고스트 맥스 3</a>(wide·17만원대, 119mm 광폭 플랫폼)</li>
   <li><strong>아킬레스·종아리가 약한 러너</strong> → <a href="/shoes/nike-vomero-18">보메로 18</a>(드롭 14mm로 종아리 부담 적음)</li>
